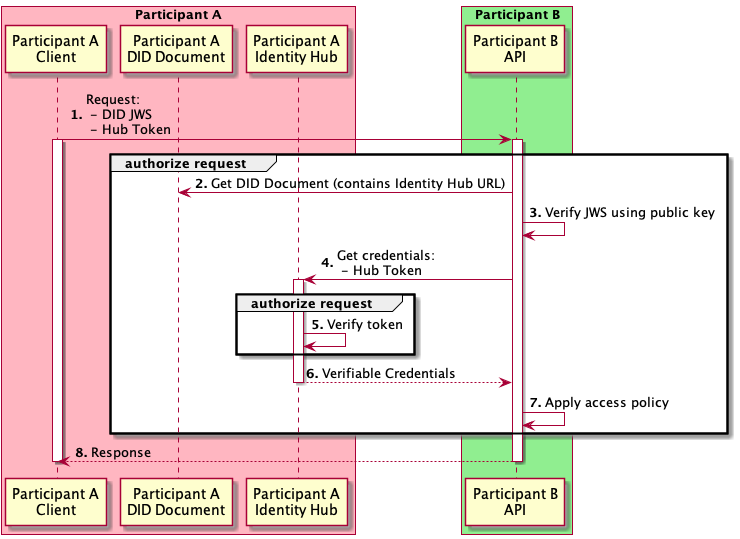
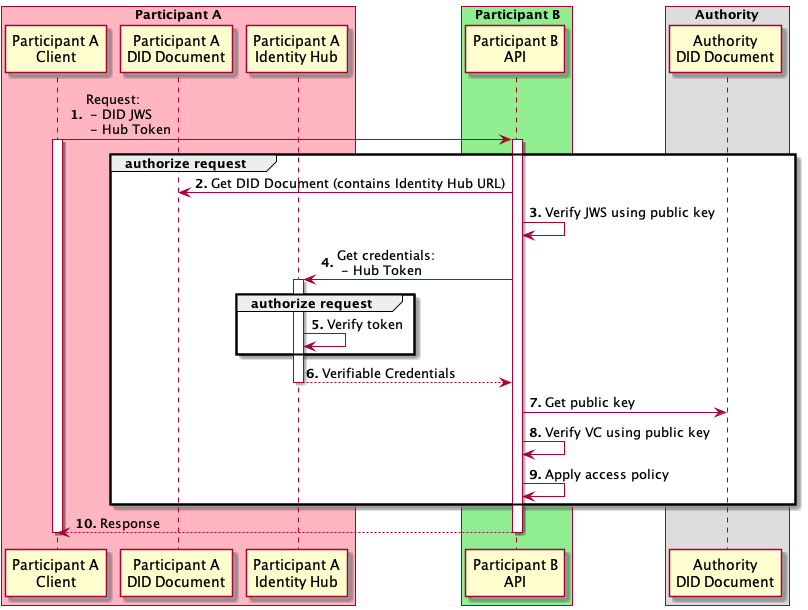
Distributed authorization sub-flow

diff --git a/docs/developer/decision-records/2022-06-16-distributed-authorization/README.md b/docs/developer/decision-records/2022-06-16-distributed-authorization/README.md
@@ -2,23 +2,24 @@
 
 This sub-flow is used for a service to authenticate and authorize requests from a Dataspace Participant.
 
-#### Participants
+## Participants
 
 1. _Participant A_, which performs a request to _Participant B_. (_Participant A_ could be a company enrolled within a dataspace.)
 2. _Participant B_, which serves a request to _Participant A_, and needs to establish _Participant A's_ credentials. (_Participant B_ could be a company enrolled within a dataspace, or the Dataspace Authority, depending on the flow.)
+2. _Authority_, which is an issuer of Verifiable Credentials of _Participant A_. (_Authority_ can be e.g. external Gaia-X Central Authority or Dataspace Authority, depending on the flow.) 
 
-#### Overview
+## Overview
 
 _Participant A_ needs to establish its identity and credentials in order to access a service from _Participant B_. Selecting and transporting _Participant A's_ verifiable credentials in request headers would be too bulky and put too much logic in the client code. Therefore, _Participant A_ sends it's DID (in a JWS) and a bearer token, allowing _Participant B_ to authenticate the request, and obtain _Participant A's_ verifiable credentials from its Identity Hub.
 
 A DID JWS cannot be used by _Participant B_ to authenticate itself to _Participant A's_ Identity Hub, as endless recursion would ensue.
 
-#### Pre-conditions
+## Pre-conditions
 
 1. _Participant A_ has deployed an Identity Hub service, and a DID Document containing the Identity Hub URL.
 2. The _Participant A_ Identity Hub contains VCs that satisfy the _Participant B's_ service access policy.
 
-#### Flow sequence
+## Flow sequence
 
 ![distributed-authorization](distributed-authorization.png)
 
@@ -33,3 +34,4 @@ A DID JWS cannot be used by _Participant B_ to authenticate itself to _Participa
 8. _Participant B_ validates the VC signature against the public key in the DID Document.
 9. _Participant B_ applies its access policy for the given service. This applies rules specific to a given service. For example, the caller must be a dataspace participant (i.e. have a valid Verifiable Credential signed by the Dataspace Authority, that establishes its dataspace membership).
 10. _Participant B_ returns the service response if the request was successfully authorized, otherwise, an error response. Depending on the flow, the response can be synchronously or asynchronously returned.
+
